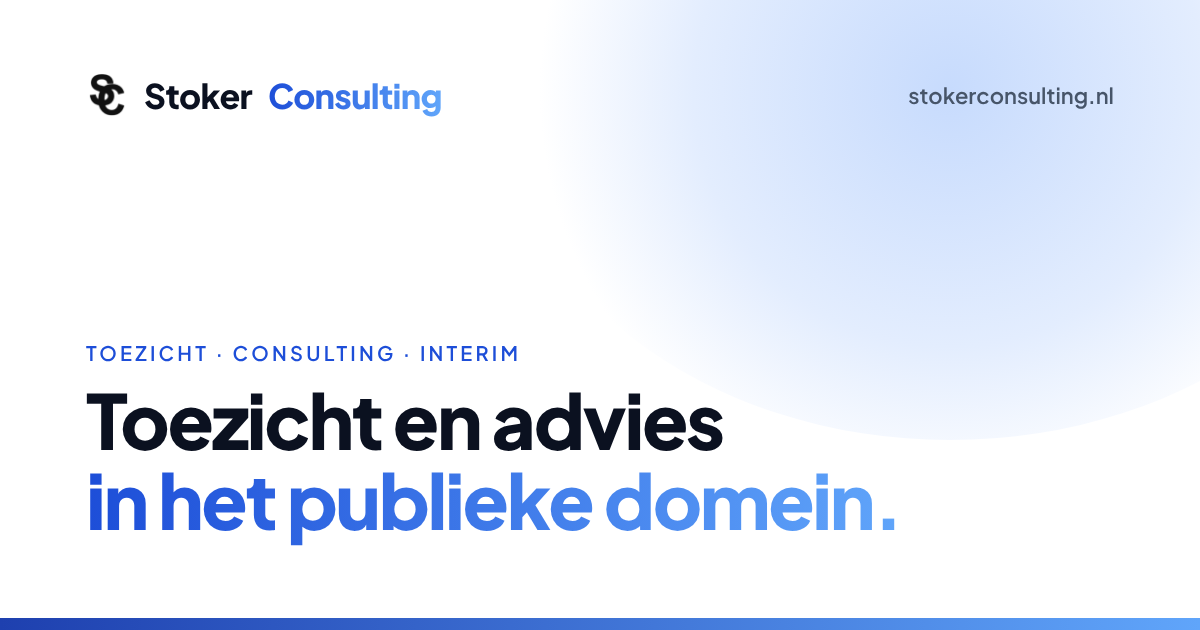
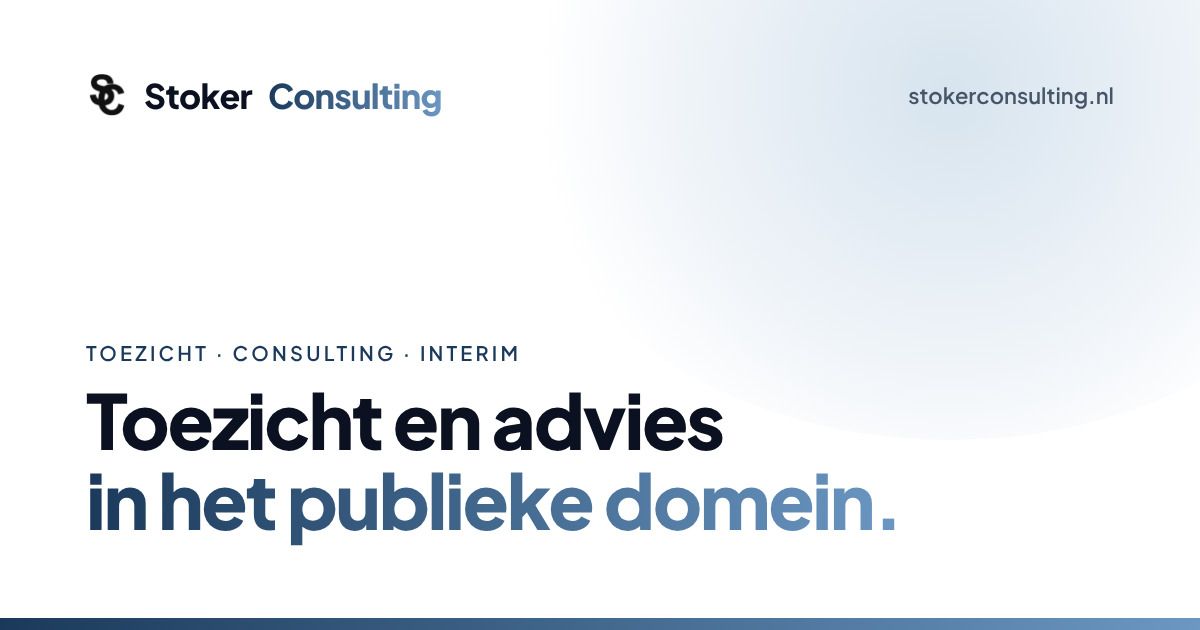
Huisstijl: accent naar governance-marineblauw (#1B3A5B)
Onderscheidt Stoker Consulting van ARIEE; previewafbeelding mee aangepast.

Claude-Session: https://claude.ai/code/session_015VdovDVmi3HYHXgJePSB9p

diff --git a/src/themes/custom/custom.ts b/src/themes/custom/custom.ts
@@ -1,6 +1,6 @@
-// Huisstijl (gedeeld met ARIEE): slate + diep blauw
+// Stoker Consulting: opbouw als ARIEE, slate + governance-marineblauw (#1B3A5B)
 // primary   = koel slate-grijs (tekst, achtergronden, randen)
-// highlight = diep blauw, naar lichtblauw toe in de lichte tinten
+// highlight = marineblauw (600 = #1B3A5B), naar staalblauw in de lichte tinten
 // Geactiveerd via theme: "custom" in src/config.ts.
 
 export const customTheme = {
@@ -18,16 +18,16 @@ export const customTheme = {
     950: "#020617"
   },
   highlight: {
-    50: "#eff5ff",
-    100: "#dbe8fe",
-    200: "#bfd6fe",
-    300: "#8ec0fb",
-    400: "#4ea6f3",
-    500: "#2f7ae8",
-    600: "#1d4ed8",
-    700: "#1a3fb0",
-    800: "#1c378b",
-    900: "#1c316e",
-    950: "#141f45"
+    50: "#eef3f8",
+    100: "#d7e4ee",
+    200: "#afc9dd",
+    300: "#87aecc",
+    400: "#6b97c2",
+    500: "#3a6b9b",
+    600: "#1b3a5b",
+    700: "#142d48",
+    800: "#0f2740",
+    900: "#0b1d30",
+    950: "#071320"
   }
 };
